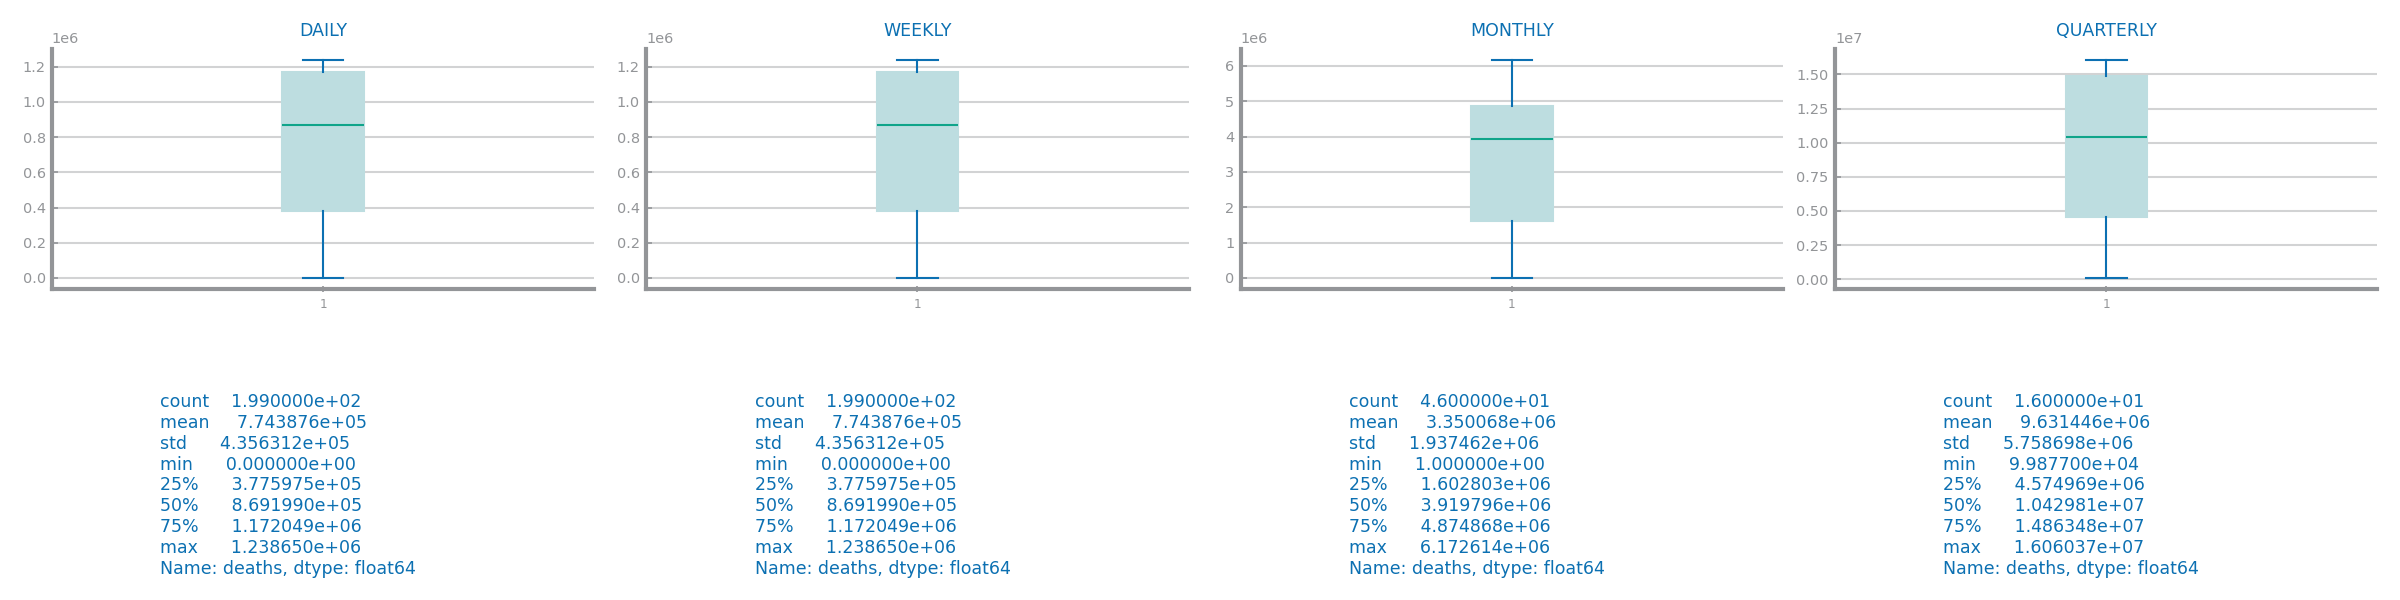
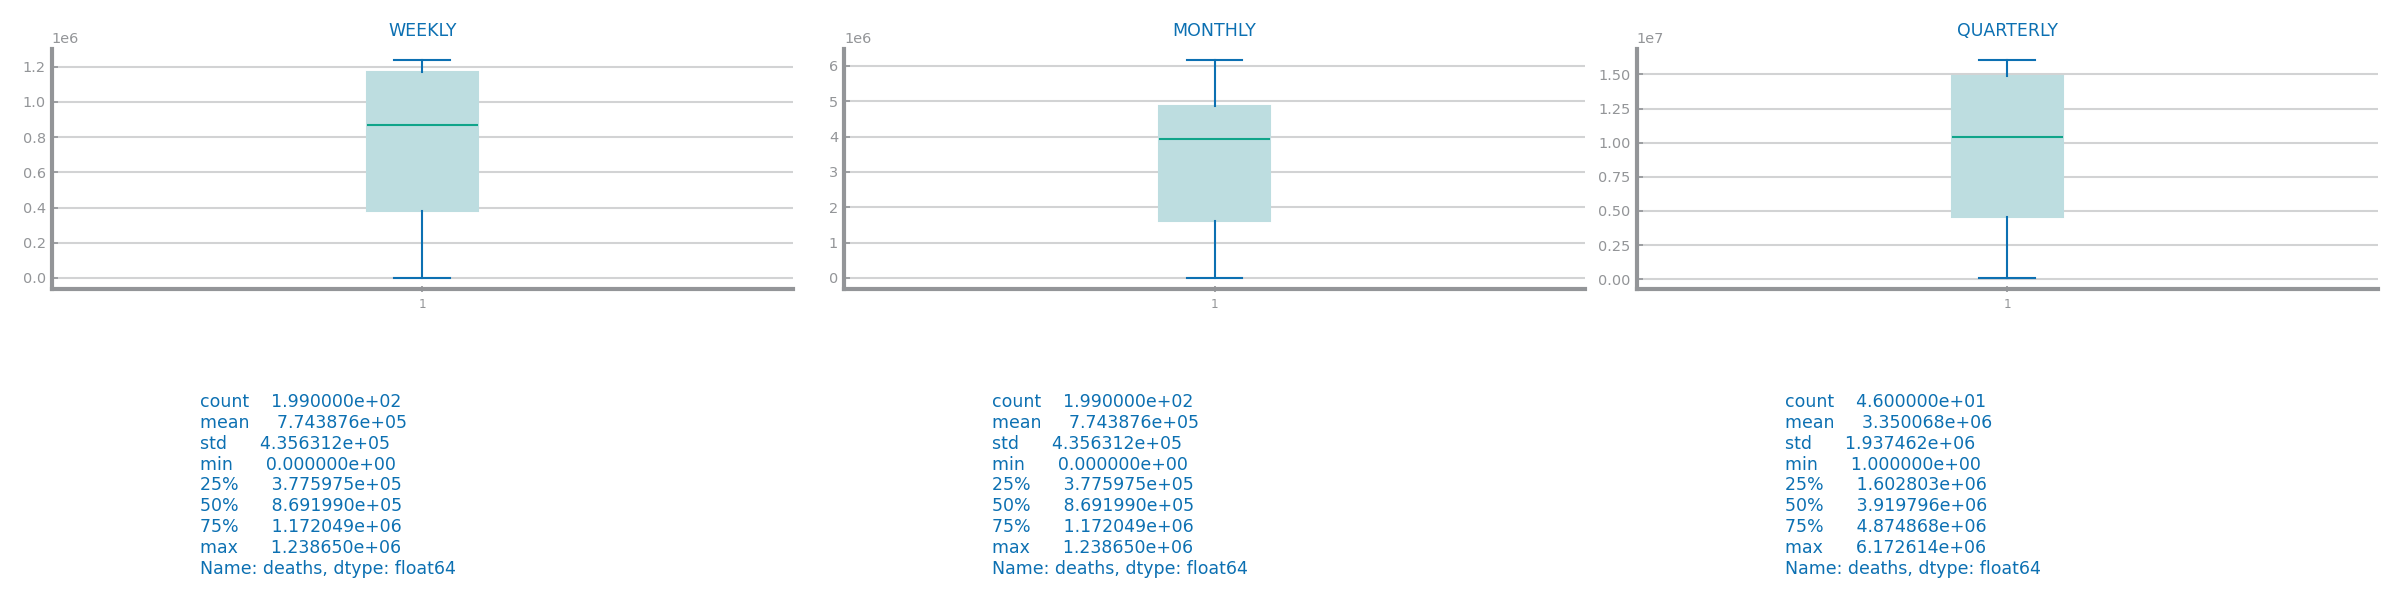
fix: covid distribution updated.

diff --git a/forecasting/data_profiling/covid/distribution.py b/forecasting/data_profiling/covid/distribution.py
@@ -24,18 +24,18 @@ ss_quarters: Series = ts_aggregation_by(series, gran_level="Q", agg_func=sum)
 
 fig: Figure
 axs: array
-fig, axs = plt.subplots(2, 4, figsize=(4 * HEIGHT, HEIGHT))
-set_chart_labels(axs[0, 0], title="DAILY")
-axs[0, 0].boxplot(series)
+fig, axs = plt.subplots(2, 3, figsize=(4 * HEIGHT, HEIGHT))
+# set_chart_labels(axs[0, 0], title="DAILY")
+# axs[0, 0].boxplot(series)
 
-set_chart_labels(axs[0, 1], title="WEEKLY")
-axs[0, 1].boxplot(ss_weeks)
+set_chart_labels(axs[0, 0], title="WEEKLY")
+axs[0, 0].boxplot(ss_weeks)
 
-set_chart_labels(axs[0, 2], title="MONTHLY")
-axs[0, 2].boxplot(ss_months)
+set_chart_labels(axs[0, 1], title="MONTHLY")
+axs[0, 1].boxplot(ss_months)
 
-set_chart_labels(axs[0, 3], title="QUARTERLY")
-axs[0, 3].boxplot(ss_quarters)
+set_chart_labels(axs[0, 2], title="QUARTERLY")
+axs[0, 2].boxplot(ss_quarters)
 
 axs[1, 0].grid(False)
 axs[1, 0].set_axis_off()
@@ -49,9 +49,9 @@ axs[1, 2].grid(False)
 axs[1, 2].set_axis_off()
 axs[1, 2].text(0.2, 0, str(ss_months.describe()), fontsize="small")
 
-axs[1, 3].grid(False)
-axs[1, 3].set_axis_off()
-axs[1, 3].text(0.2, 0, str(ss_quarters.describe()), fontsize="small")
+# axs[1, 3].grid(False)
+# axs[1, 3].set_axis_off()
+# axs[1, 3].text(0.2, 0, str(ss_quarters.describe()), fontsize="small")
 
 plt.tight_layout()
 plt.savefig(f"images/distribution/{covid_file_tag}_{target}_boxplot.png")
@@ -62,8 +62,8 @@ plt.clf()
 # Variables Distribution
 # ------------------
 
-grans: list[Series] = [series, ss_weeks, ss_months, ss_quarters]
-gran_names: list[str] = ["Daily", "Weekly", "Monthly", "Quarterly"]
+grans: list[Series] = [ss_weeks, ss_months, ss_quarters]
+gran_names: list[str] = ["Weekly", "Monthly", "Quarterly"]
 fig: Figure
 axs: array
 fig, axs = plt.subplots(1, len(grans), figsize=(len(grans) * HEIGHT, HEIGHT))
